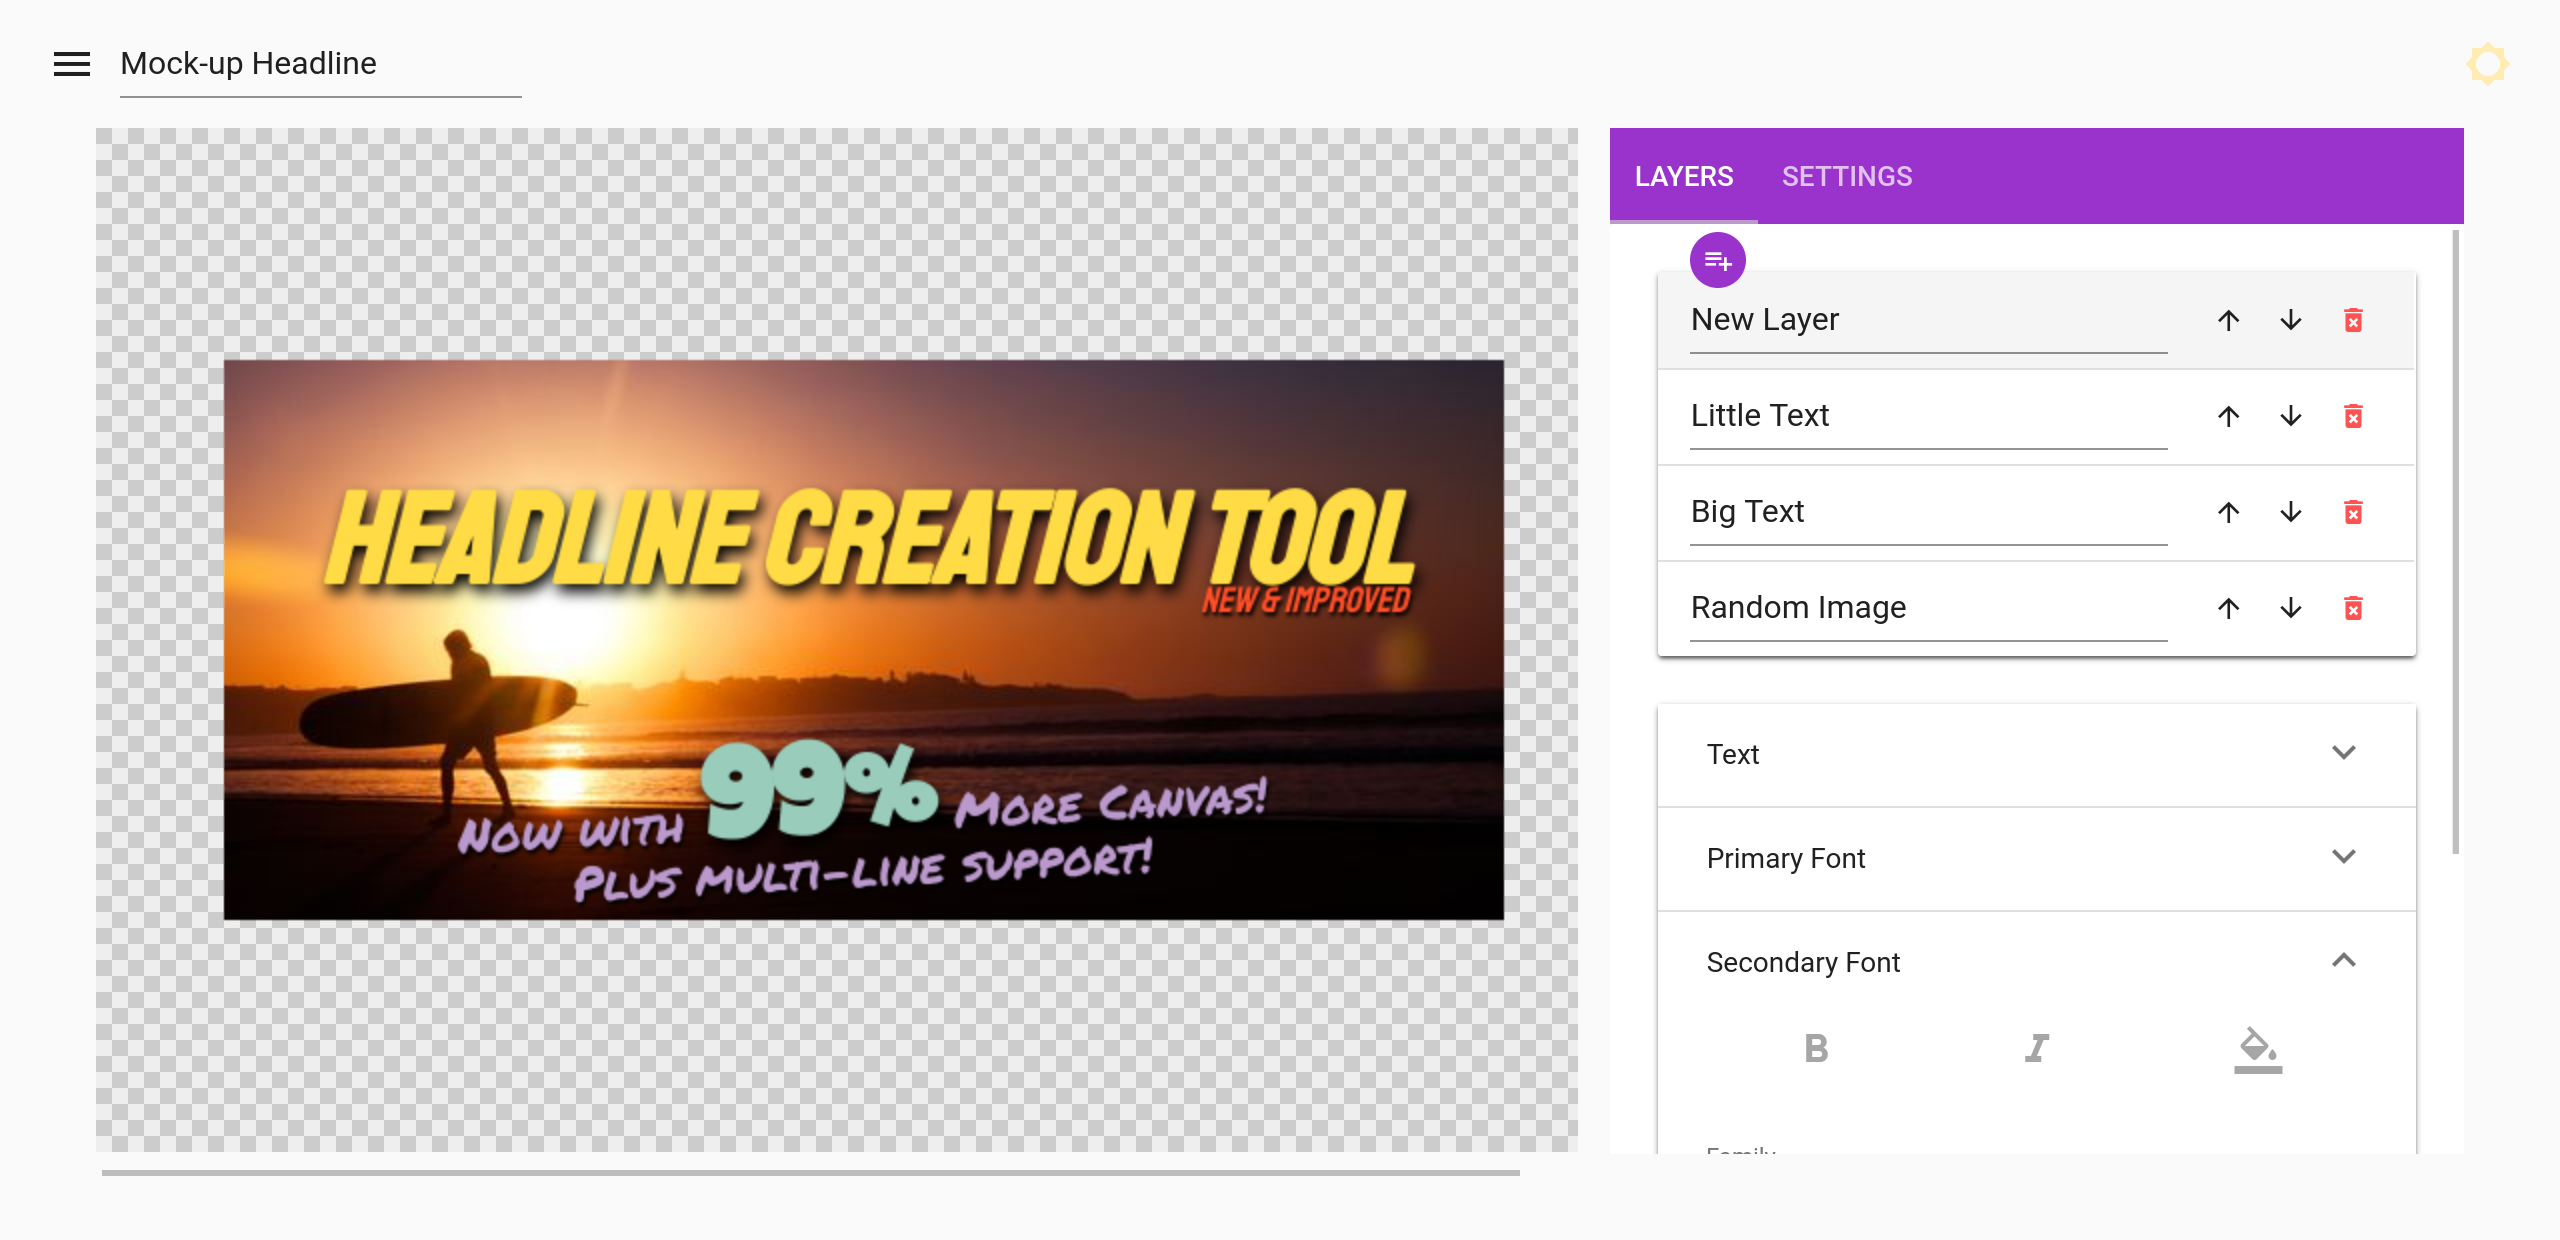
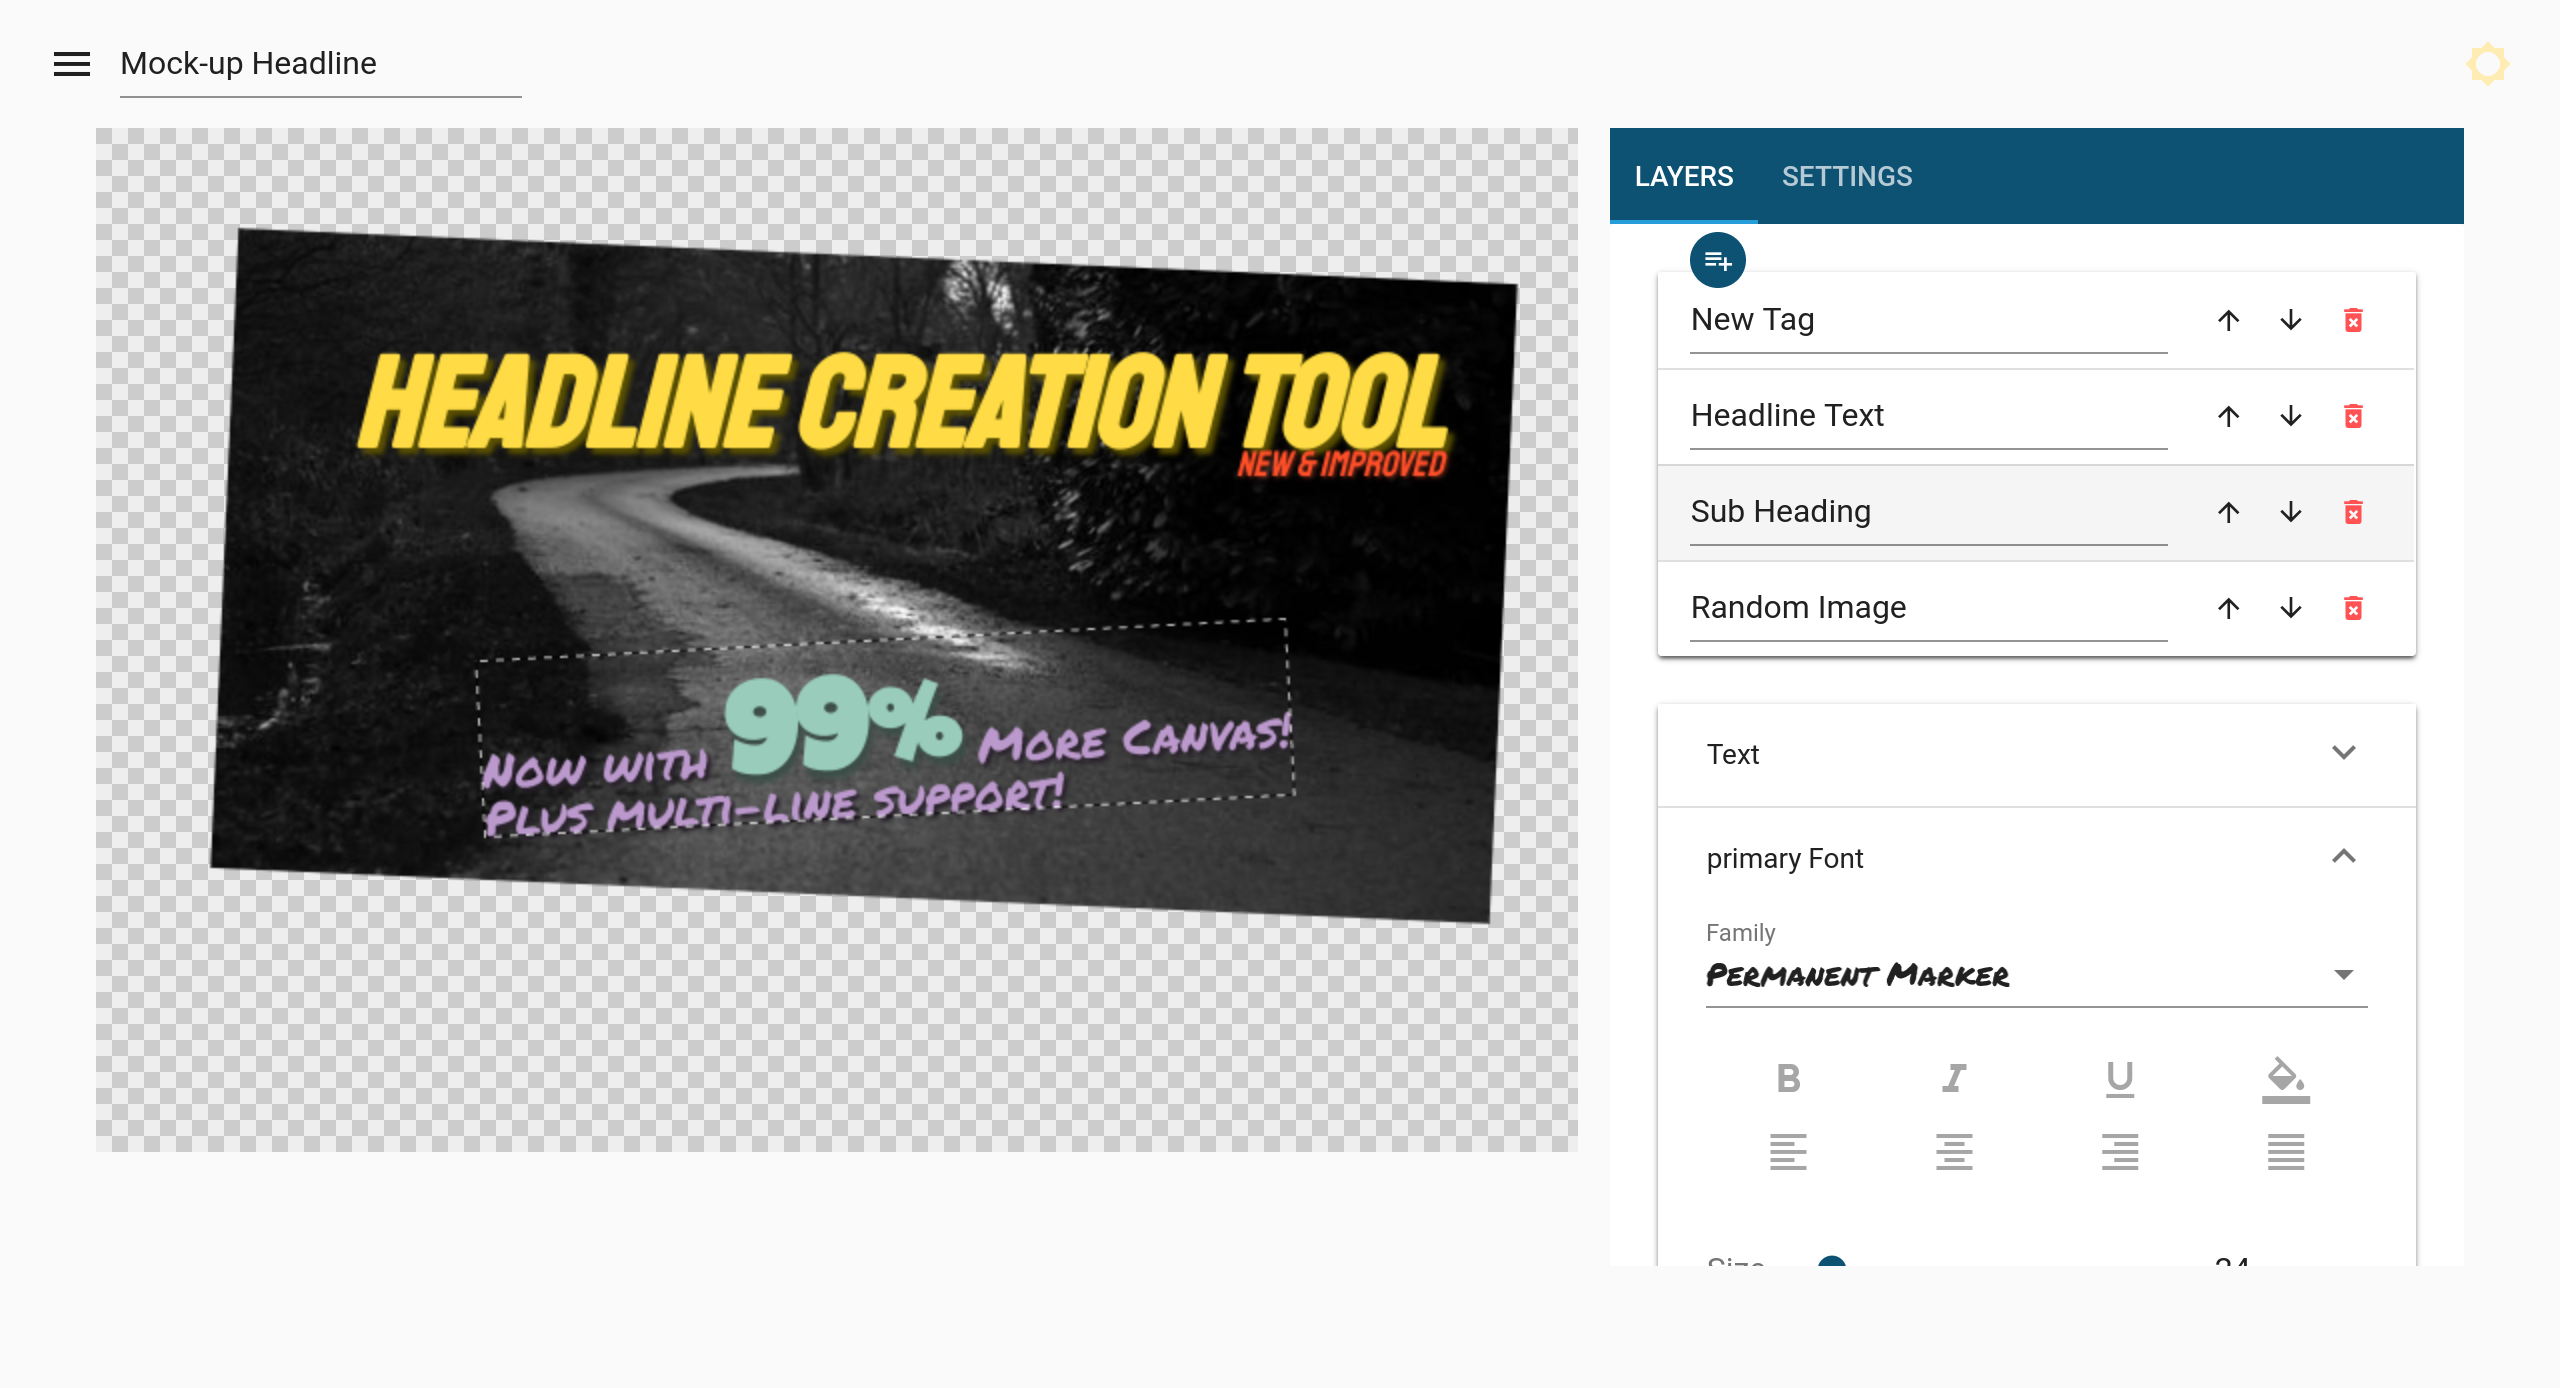
Update theme colors and screenshot

diff --git a/views/App.vue b/views/App.vue
@@ -107,16 +107,16 @@ export default {
     isDarkMode() {
       if (!this.isDarkMode) { //NOT dark mode
         this.$vuetify.theme = {
-          primary: '#9933cc', //Main color
+          primary: '#0d5173', //Main color
           primaryText: '#FFFFFF', //Color for text on primary
-          secondary: '#bb99cc', //Color for active nav
+          secondary: '#269dd9', //Color for active nav
           lightText: '#000000'
         }
       } else { //Dark mode
         this.$vuetify.theme = {
           primary: '#424242', //Main color
           primaryText: '#FFFFFF', //Color for text on primary
-          secondary: '#9933cc', //Color for active nav
+          secondary: '#0d5173', //Color for active nav
           lightText: '#FFFFFF'
         }
       }

diff --git a/views/main.js b/views/main.js
@@ -10,9 +10,9 @@ import './stylus/main.styl'
 
 Vue.use(Vuetify, {
   theme: {
-    primary: '#9933cc', //Main color
+    primary: '#0d5173', //Main color
     primaryText: '#FFFFFF', //Color for text on primary
-    secondary: '#bb99cc', //Color for active nav
+    secondary: '#269dd9', //Color for active nav
     lightText: '#000000' //Dark Text for light Backgrounds
   }
 })
